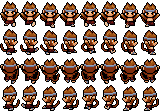
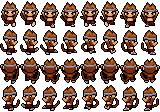
Update graphics and peach cave to allow completion without chakram.

diff --git a/app/render/heroAnimations.ts b/app/render/heroAnimations.ts
@@ -93,18 +93,18 @@ const rollRightAnimation: FrameAnimation = createAnimation('gfx/mc/mcroll.png', 
 
 
 const pushGeometry: FrameDimensions = {w: 20, h: 28, content: {x: 2, y: 16 + Y_OFF, w: 16, h: 16}};
-const grabUpAnimation: FrameAnimation = createAnimation('gfx/mc/mcpushpull.png', pushGeometry, { cols: 1, x: 1, y: 2, duration: 8});
-const grabDownAnimation: FrameAnimation = createAnimation('gfx/mc/mcpushpull.png', pushGeometry, { cols: 1, x: 1, y: 0, duration: 8});
-const grabLeftAnimation: FrameAnimation = createAnimation('gfx/mc/mcpushpull.png', pushGeometry, { cols: 1, x: 1, y: 3, duration: 8});
-const grabRightAnimation: FrameAnimation = createAnimation('gfx/mc/mcpushpull.png', pushGeometry, { cols: 1, x: 1, y: 1, duration: 8});
-const pullUpAnimation: FrameAnimation = createAnimation('gfx/mc/mcpushpull.png', pushGeometry, { cols: 3, x: 2, y: 2, duration: 8, frameMap:[0, 1, 0, 2]});
-const pullDownAnimation: FrameAnimation = createAnimation('gfx/mc/mcpushpull.png', pushGeometry, { cols: 3, x: 2, y: 0, duration: 8, frameMap:[0, 1, 0, 2]});
-const pullLeftAnimation: FrameAnimation = createAnimation('gfx/mc/mcpushpull.png', pushGeometry, { cols: 3, x: 2, y: 3, duration: 8, frameMap:[0, 1, 0, 2]});
-const pullRightAnimation: FrameAnimation = createAnimation('gfx/mc/mcpushpull.png', pushGeometry, { cols: 3, x: 2, y: 1, duration: 8, frameMap:[0, 1, 0, 2]});
-const pushUpAnimation: FrameAnimation = createAnimation('gfx/mc/mcpushpull.png', pushGeometry, { cols: 3, x: 5, y: 2, duration: 8, frameMap:[0, 1, 0, 2]});
-const pushDownAnimation: FrameAnimation = createAnimation('gfx/mc/mcpushpull.png', pushGeometry, { cols: 3, x: 5, y: 0, duration: 8, frameMap:[0, 1, 0, 2]});
-const pushLeftAnimation: FrameAnimation = createAnimation('gfx/mc/mcpushpull.png', pushGeometry, { cols: 3, x: 5, y: 3, duration: 8, frameMap:[0, 1, 0, 2]});
-const pushRightAnimation: FrameAnimation = createAnimation('gfx/mc/mcpushpull.png', pushGeometry, { cols: 3, x: 5, y: 1, duration: 8, frameMap:[0, 1, 0, 2]});
+const grabUpAnimation: FrameAnimation = createAnimation('gfx/mc/mccarrypushpull.png', pushGeometry, { cols: 1, x: 1, y: 2, duration: 8});
+const grabDownAnimation: FrameAnimation = createAnimation('gfx/mc/mccarrypushpull.png', pushGeometry, { cols: 1, x: 1, y: 0, duration: 8});
+const grabLeftAnimation: FrameAnimation = createAnimation('gfx/mc/mccarrypushpull.png', pushGeometry, { cols: 1, x: 1, y: 3, duration: 8});
+const grabRightAnimation: FrameAnimation = createAnimation('gfx/mc/mccarrypushpull.png', pushGeometry, { cols: 1, x: 1, y: 1, duration: 8});
+const pullUpAnimation: FrameAnimation = createAnimation('gfx/mc/mccarrypushpull.png', pushGeometry, { cols: 3, x: 2, y: 2, duration: 8, frameMap:[0, 1, 0, 2]});
+const pullDownAnimation: FrameAnimation = createAnimation('gfx/mc/mccarrypushpull.png', pushGeometry, { cols: 3, x: 2, y: 0, duration: 8, frameMap:[0, 1, 0, 2]});
+const pullLeftAnimation: FrameAnimation = createAnimation('gfx/mc/mccarrypushpull.png', pushGeometry, { cols: 3, x: 2, y: 3, duration: 8, frameMap:[0, 1, 0, 2]});
+const pullRightAnimation: FrameAnimation = createAnimation('gfx/mc/mccarrypushpull.png', pushGeometry, { cols: 3, x: 2, y: 1, duration: 8, frameMap:[0, 1, 0, 2]});
+const pushUpAnimation: FrameAnimation = createAnimation('gfx/mc/mccarrypushpull.png', pushGeometry, { cols: 3, x: 5, y: 2, duration: 8, frameMap:[0, 1, 0, 2]});
+const pushDownAnimation: FrameAnimation = createAnimation('gfx/mc/mccarrypushpull.png', pushGeometry, { cols: 3, x: 5, y: 0, duration: 8, frameMap:[0, 1, 0, 2]});
+const pushLeftAnimation: FrameAnimation = createAnimation('gfx/mc/mccarrypushpull.png', pushGeometry, { cols: 3, x: 5, y: 3, duration: 8, frameMap:[0, 1, 0, 2]});
+const pushRightAnimation: FrameAnimation = createAnimation('gfx/mc/mccarrypushpull.png', pushGeometry, { cols: 3, x: 5, y: 1, duration: 8, frameMap:[0, 1, 0, 2]});
 const grabShallowUpAnimation: FrameAnimation = createAnimation('gfx/mc/mcpushpullshallow.png', pushGeometry, { cols: 1, x: 1, y: 2, duration: 8});
 const grabShallowDownAnimation: FrameAnimation = createAnimation('gfx/mc/mcpushpullshallow.png', pushGeometry, { cols: 1, x: 1, y: 0, duration: 8});
 const grabShallowLeftAnimation: FrameAnimation = createAnimation('gfx/mc/mcpushpullshallow.png', pushGeometry, { cols: 1, x: 1, y: 3, duration: 8});

diff --git a/app/content/zones/peachCave.ts b/app/content/zones/peachCave.ts
@@ -154,8 +154,8 @@ const f0_0x0: AreaDefinition = {
                     [1,1,1,1,1,1,1,1,1,1,1,1,1,1,1,1,1,1,1,1,1,1,0,1,4,1,1,1,1,1,1,1],
                     [1,1,1,1,1,1,1,1,1,1,1,1,1,1,1,1,1,1,1,0,1,1,1,1,4,4,1,1,1,1,1,1],
                     [1,1,1,1,0,0,0,0,0,0,0,0,0,0,0,0,1,1,1,1,1,1,1,1,1,4,1,0,1,0,1,1],
-                    [1,1,1,1,753,754,753,754,753,0,0,0,0,0,0,0,1,1,1,0,1,0,1,1,1,4,4,1,1,1,1,1],
-                    [1,1,1,770,762,763,762,763,762,753,753,754,754,754,754,754,754,766,1,0,753,754,753,1,1,1,4,1,1,1,1,1],
+                    [1,1,1,1,753,754,753,754,753,0,0,0,0,0,0,0,1,1,1,0,1,0,1,1,1,4,4,1,106,107,1,1],
+                    [1,1,1,770,762,763,762,763,762,753,753,754,754,754,754,754,754,766,1,0,753,754,753,1,1,1,4,1,107,106,1,1],
                     [1,1,770,773,0,0,55,1,0,751,753,754,753,754,753,754,754,766,1,770,762,763,762,767,0,1,4,1,1,1,1,1],
                     [1,1,773,0,1,1,1,1,0,751,753,754,753,754,753,754,754,753,770,774,1,0,1,771,767,754,753,754,753,754,1,1],
                     [1,1,1,1,56,1,1,1,0,751,753,754,753,754,753,754,754,753,773,1,1,1,1,1,771,763,762,763,762,763,1,1],
@@ -356,7 +356,7 @@ const f0_0x0: AreaDefinition = {
         {id: "peachCave-beetle1", linked: false, spirit: false, status: "normal", x: 448, y: 224, type: "enemy", enemyType: "beetle"},
         {id: "peachCave:0:0x0-money-0", linked: false, spirit: false, status: "normal", x: 464, y: 352, type: "chest", lootType: "money", lootLevel: 0, lootAmount: 50},
         {status: "normal", id: "peachCave-climber1", x: 336, y: 304, type: "enemy", enemyType: "climbingBeetle", d: "down", params: {}},
-        {status: "normal", id: "peachCave-climber2", x: 464, y: 144, type: "enemy", enemyType: "climbingBeetle", d: "down", params: {}},
+        {status: "normal", id: "", x: 304, y: 192, type: "enemy", enemyType: "climbingBeetle", d: "down", params: {}},
         {id: "", linked: false, spirit: false, status: "closedEnemy", x: 48, y: 240, type: "door", d: "down", style: "cavern"},
         {status: "normal", id: "peachCaveSprout1", x: 320, y: 128, type: "vineSprout", customLogic: "peachCave:boss", invertLogic: true},
         {status: "normal", id: "thornsInstructions", x: 112, y: 352, type: "narration", message: "", w: 32, h: 144},
@@ -368,6 +368,7 @@ const f0_0x0: AreaDefinition = {
         {status: "normal", id: "", x: 336, y: 256, type: "spawnMarker"},
         {status: "normal", id: "", x: 448, y: 368, type: "spawnMarker"},
         {status: "normal", id: "", x: 432, y: 240, type: "spawnMarker"},
+        {status: "normal", id: "peachCave-climber2", x: 464, y: 144, type: "enemy", enemyType: "climbingBeetle", d: "down", params: {}},
     ],
     sections: [
         {x: 0, y: 0, w: 16, h: 16},

diff --git a/app/render/areaLighting.ts b/app/render/areaLighting.ts
@@ -2,8 +2,9 @@ import { Clone } from 'app/content/objects/clone';
 import { editingState } from 'app/development/tileEditor';
 import { createCanvasAndContext } from 'app/dom';
 import {
-    CANVAS_HEIGHT, CANVAS_WIDTH,
+    CANVAS_HEIGHT, CANVAS_WIDTH, FRAME_LENGTH,
 } from 'app/gameConstants';
+import { heroCarryAnimations } from 'app/render/heroAnimations';
 
 import { carryMap, directionMap } from 'app/utils/field';
 
@@ -190,10 +191,22 @@ export function renderAreaLighting(context: CanvasRenderingContext2D, state: Gam
         const behaviors = hero.pickUpTile.behaviors;
         if (behaviors?.brightness) {
             const offset = carryMap[hero.d][Math.min(hero.pickUpFrame, carryMap[hero.d].length - 1)];
+
+            let yBounce = 0;
+            const grabAnimation = heroCarryAnimations.grab[hero.d];
+            if (hero.pickUpFrame >= grabAnimation.frames.length * grabAnimation.frameDuration && hero.action === 'walking') {
+                // The arms of the MC are higher for 2 frames, then lower for 2 frames, etc.
+                const bounceDuration = 2 * heroCarryAnimations.move.up.frameDuration * FRAME_LENGTH;
+                const frameIndex = (hero.animationTime / bounceDuration) | 0;
+                if (frameIndex % 2 === 1) {
+                    yBounce += 1;
+                }
+            }
+
             drawLightGradient(lightingContext,
                 {
                     x: hero.x + offset.x + 8 - state.camera.x + area.cameraOffset.x,
-                    y: hero.y + offset.y + 8 - state.camera.y + area.cameraOffset.y,
+                    y: hero.y + offset.y + 8 - state.camera.y + area.cameraOffset.y + yBounce,
                 },
                 behaviors.brightness, behaviors.lightRadius
             );

diff --git a/app/content/enemies.ts b/app/content/enemies.ts
@@ -115,10 +115,10 @@ enemyDefinitions.beetleHorned = {
     lootTable: moneyLootTable,
 };
 enemyDefinitions.beetleMini = {
-    animations: beetleMiniAnimations,
-    acceleration: 0.01,
+    animations: beetleMiniAnimations, aggroRadius: 32,
+    acceleration: 0.02,
     speed: 0.8,
-    hasShadow: false, life: 1, touchDamage: 1, update: scurryRandomly,
+    hasShadow: false, life: 1, touchDamage: 1, update: scurryAndChase,
     lootTable: lifeLootTable,
 };
 enemyDefinitions.beetleWinged = {
